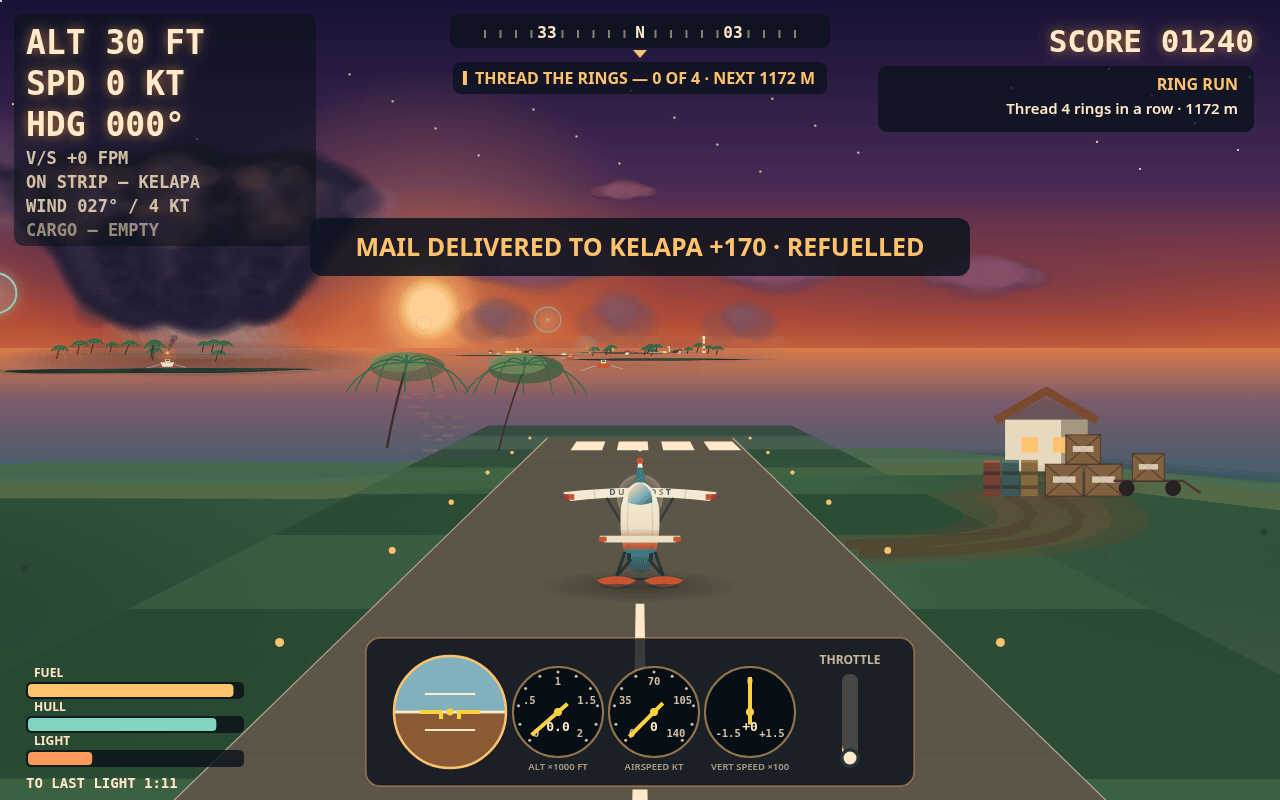
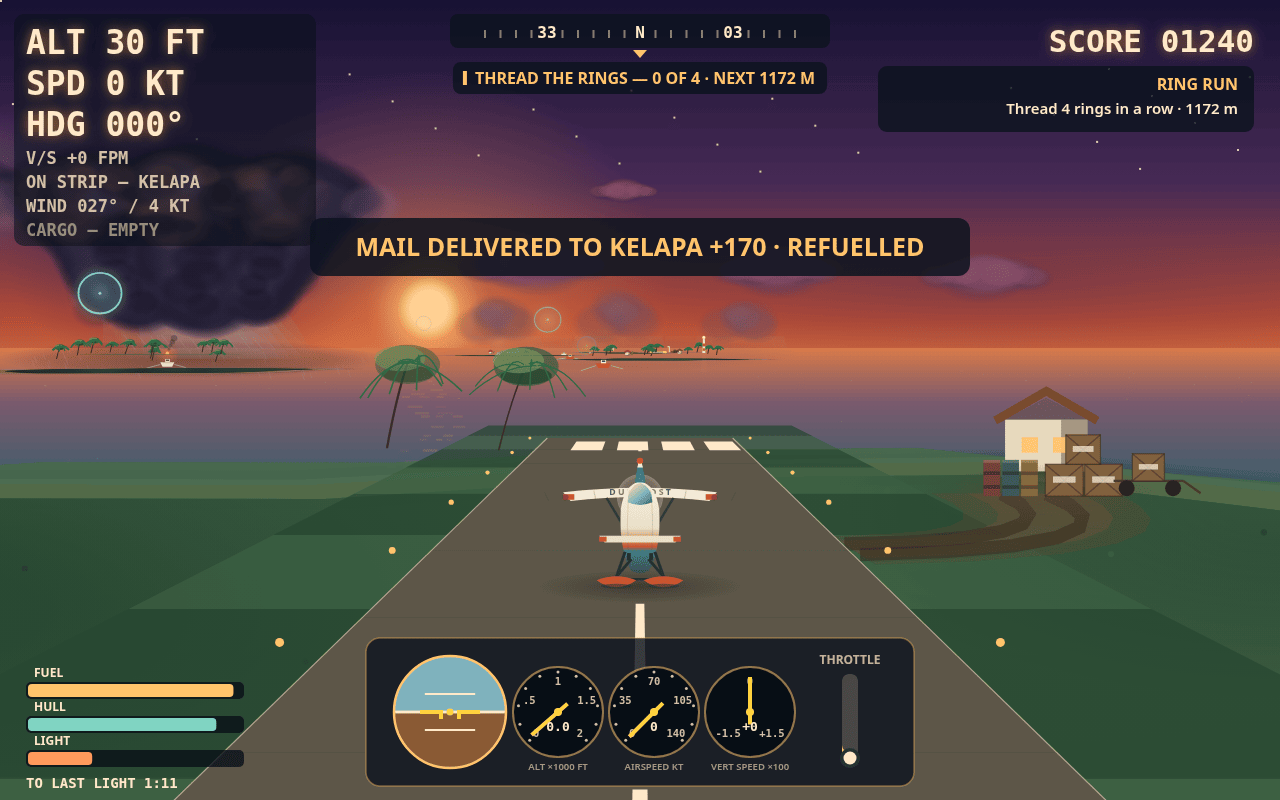
V12: palms that are trees, modelled clouds, one-mass storm cell, rain-textured sea, whole ring

diff --git a/game/src/render.js b/game/src/render.js
@@ -184,7 +184,7 @@ function drawSea(ctx, v, plane, light) {
   }
   ctx.globalAlpha = 1;
   ctx.fillStyle = 'rgba(220,245,245,0.35)';
-  for (let i = 0; i < 70; i += 1) {
+  for (let i = 0; i < 110; i += 1) {
     // Hashed placement, not modular: the old steps — (i × 613.7) %
     // 1500 in z, (i × 389.3) % 900 in x — are two arithmetic
     // progressions, and their points lie on lattice runs however
@@ -192,7 +192,7 @@ function drawSea(ctx, v, plane, light) {
     // run aligned into a dotted column descending the water, a
     // marker line instead of light (V10 audit problem 10). A
     // sin-hash of the index (the pattern this file uses for grain
-    // and jitter everywhere else) scatters the same 70 dashes over
+    // and jitter everywhere else) scatters the same 110 dashes over
     // the same ranges with no runs left to align.
     const hash = (salt) => {
       const h = Math.sin(i * 12.9898 + salt * 7.77) * 43758.5453;
@@ -203,7 +203,13 @@ function drawSea(ctx, v, plane, light) {
     const p = project(v, wx, 0, wz + hash(3) * 60);
     if (!p || p.y < v.horizon) continue;
     const len = clamp(p.s * 0.09, 2, 26);
-    ctx.globalAlpha = clamp(0.5 - p.fwd / 2600, 0.05, 0.4);
+    // V12: the floor was 0.05 — at the storm camera the open sea is
+    // far water and the sparkle vanished into it, and the cover's
+    // sea left of the glitter column was one flat field (V12 audit
+    // problems 3 and 8). The floor is 0.10 now and the count is 110:
+    // the sea keeps some light everywhere without the glitter
+    // column coming back.
+    ctx.globalAlpha = clamp(0.5 - p.fwd / 2600, 0.10, 0.4);
     ctx.fillRect(p.x - len / 2, p.y, len, Math.max(1, p.s * 0.012));
   }
   ctx.globalAlpha = 1;
@@ -534,6 +540,27 @@ function drawStorm(ctx, v, storm, t) {
     ctx.lineTo(px + len * 0.35, py + len);
     ctx.stroke();
   }
+  // The stipple stops at the shadow's rim, so the cell's weather
+  // ends in a clean circle and the open sea beyond it is polished
+  // — the storm frame's whole bottom-right quarter was one smooth
+  // wash (V12 audit problem 3). A sparse outer ring (1.1–2.4R) of
+  // the same slanted dashes at a lower alpha carries the rain out
+  // onto the open water; it adds texture, not a shape, and the
+  // annulus test keeps it off the shadow it extends.
+  for (let i = 0; i < 40; i += 1) {
+    const fx = (grain(i, 81) * 2 - 1) * 2.4;
+    const fz = (grain(i, 82) * 2 - 1);
+    const d2 = fx * fx * 0.8 + fz * fz;
+    if (d2 < 1.15 || d2 > 5.6) continue;
+    const px = cx + fx * R;
+    const py = seaY + fz * R * 0.085;
+    const len = R * (0.015 + grain(i, 83) * 0.025);
+    ctx.globalAlpha = Math.min(0.07, (0.03 + grain(i, 84) * 0.03) * shaftBoostPre);
+    ctx.beginPath();
+    ctx.moveTo(px, py);
+    ctx.lineTo(px + len * 0.35, py + len);
+    ctx.stroke();
+  }
   ctx.globalAlpha = 1;
 
   // The rain shaft: a slanted curtain from the cloud base to the sea — the
@@ -628,15 +655,25 @@ function drawStorm(ctx, v, storm, t) {
       ctx.fill();
     }
   });
+  // The streaks were 0.55–0.75 of the fall long — at the storm
+  // frame's scale, 165–225 px straight diagonal scratches across
+  // the sea (V12 audit problem 4). Rain reads as broken dashes,
+  // not long rules: two staggered sets of short streaks, each
+  // ~0.30 of the fall, so no single dash runs more than a third
+  // of the column.
   ctx.strokeStyle = `rgba(190,200,220,${0.15 * shaftBoost})`;
   ctx.lineWidth = Math.max(1, s * 0.35);
-  for (let i = 0; i < 15; i += 1) {
-    const fx = -0.40 + i * 0.057;
-    const drift = ((t * 0.7 + i * 0.37) % 1) * 0.3;
-    ctx.beginPath();
-    ctx.moveTo(cx + fx * R, baseY + (seaY - baseY) * drift * 0.2);
-    ctx.lineTo(cx + fx * R + slant * (0.4 + drift), baseY + (seaY - baseY) * (0.55 + drift * 0.4));
-    ctx.stroke();
+  for (let set = 0; set < 2; set += 1) {
+    for (let i = 0; i < 12; i += 1) {
+      const fx = -0.40 + (i + set * 0.5) * 0.069;
+      const drift = ((t * 0.7 + (i + set * 6) * 0.37) % 1) * 0.3;
+      const t0 = 0.06 + set * 0.42 + drift * 0.2;
+      const t1 = t0 + 0.30;
+      ctx.beginPath();
+      ctx.moveTo(cx + fx * R, baseY + (seaY - baseY) * t0);
+      ctx.lineTo(cx + fx * R + slant * 0.45, baseY + (seaY - baseY) * t1);
+      ctx.stroke();
+    }
   }
 
   // Far weather beyond the shoulder: three very large, soft puffs of
@@ -1026,7 +1063,18 @@ function drawCloud(ctx, v, c, stormDisc = null) {
   // with range, in the squall's own spirit; the lit tops are the
   // light, and stay.
   const hz = clamp((p.fwd - 1200) / 2600, 0, 0.4);
-  const bellyRgb = `${Math.round(74 + (138 - 74) * hz)},${Math.round(44 + (85 - 44) * hz)},${Math.round(86 + (112 - 86) * hz)}`;
+  // V12: a cloud inside the storm's silhouette draws in the CELL's
+  // own belly colour, not the sky's. The shaded branch used the sky
+  // belly (74,44,86) at 0.34 — far lighter than the cell's near-black
+  // belly (33,29,50 at 0.88) — so a shaded cloud printed a lighter
+  // mauve oval inside the storm cell in the approach frame (V12
+  // audit problem 7). Proven by render diff on the V11 tree: the
+  // mid-pass probe left the oval unchanged, skipping shaded clouds
+  // removed it and darkened the belly (mean 53.3 → 47.0). In the
+  // cell's own tone the cloud adds mass to the storm instead of a
+  // patch on it.
+  const bellyRgb = shaded ? '33,29,50'
+    : `${Math.round(74 + (138 - 74) * hz)},${Math.round(44 + (85 - 44) * hz)},${Math.round(86 + (112 - 86) * hz)}`;
   puffs.forEach(([ox, oy, r], i) => {
     const voy = oy > 0.05 ? oy * 0.7 : oy;
     const cxp = p.x + (ox * mir * spreadK + (jit(i, 1) - 0.5) * 0.09) * w;
@@ -1035,6 +1083,22 @@ function drawCloud(ctx, v, c, stormDisc = null) {
     const a = shaded ? 0.34 : (0.5 + jit(i, 4) * 0.14) * (1 - hz * 0.8);
     softPuff(ctx, cxp, cyp, rr, `rgba(${bellyRgb},${a})`, `rgba(${bellyRgb},0)`, squash);
   });
+  // A dark core low in the belly: six puffs of one belly colour left
+  // the hero clouds as smooth cushions with no interior at all (V12
+  // audit problem 2). Three darker puffs at hashed offsets, the
+  // storm body's own device, give the belly a shadow to hold. They
+  // use bellyRgb, so a shaded cloud's core is storm-coloured too.
+  for (let i = 0; i < 3; i += 1) {
+    softPuff(
+      ctx,
+      p.x + (jit(i, 51) - 0.5) * w * 0.5,
+      p.y + w * spread * (0.02 + jit(i, 52) * 0.08),
+      w * 0.28 * (0.85 + jit(i, 53) * 0.3),
+      `rgba(${shaded ? '33,29,50' : '52,32,62'},${(shaded ? 0.12 : 0.20) * (1 - hz * 0.8)})`,
+      `rgba(${shaded ? '33,29,50' : '52,32,62'},0)`,
+      squash,
+    );
+  }
   if (shaded) return;
   puffs.forEach(([ox, oy, r], i) => {
     const voy = oy > 0.05 ? oy * 0.7 : oy;
@@ -1044,13 +1108,18 @@ function drawCloud(ctx, v, c, stormDisc = null) {
     softPuff(ctx, cxp, cyp, rr, `rgba(146,84,110,${0.30 + jit(i, 5) * 0.14})`, 'rgba(146,84,110,0)', squash);
   });
   if (big) {
+    // V12: the lit row sat at p.y − w × spread × 0.34 and spanned
+    // fx −0.44…0.44 — at the row's ends it poked above the belly top
+    // puff's silhouette, so the light read as a small cap floating
+    // on the cloud (V12 audit problem 2). Lowered and narrowed, the
+    // light sits inside the belly instead of on top of it.
     for (let i = 0; i < 5; i += 1) {
-      const fx = -0.44 + i * 0.22 + (jit(i, 21) - 0.5) * 0.07;
-      const rr = w * (0.10 + jit(i, 22) * 0.05);
+      const fx = -0.36 + i * 0.18 + (jit(i, 21) - 0.5) * 0.07;
+      const rr = w * (0.12 + jit(i, 22) * 0.05);
       softPuff(
         ctx,
         p.x + fx * w,
-        p.y - w * spread * 0.34 + (jit(i, 23) - 0.5) * w * 0.03,
+        p.y - w * spread * 0.26 + (jit(i, 23) - 0.5) * w * 0.03,
         rr,
         `rgba(255,166,110,${0.10 + jit(i, 24) * 0.07})`,
         'rgba(255,166,110,0)',
@@ -1080,7 +1149,13 @@ function drawIsland(ctx, v, isl, t, light, world) {
   // 6). The new curve gives 715 m a 0.113 wash and 1,000 m 0.26,
   // while the cover's ~440 m and the approach's ~330 m stay at
   // zero, so no frame that was right changes.
-  const haze = clamp((fwd - 500) / 1900, 0, 0.45);
+  // V12 deepens it one more safe step (450 m start, 1700 m run):
+  // 0.113 at 715 m was still gentle — Cahaya still read
+  // full-strength green in the storm frame (V12 audit problem 5).
+  // 715 m now takes 0.156 and 1,000 m 0.324, while the cover's
+  // ~440 m and the approach's ~330 m still sit below the start,
+  // so no frame that was right changes.
+  const haze = clamp((fwd - 450) / 1700, 0, 0.45);
   const dark = (1 - clamp(light, 0, 1)) * 0.75;
   // The ground darkens harder than the palette's other tones: at last light
   // the sky keeps its orange horizon while the land is already in night, and
@@ -1225,8 +1300,15 @@ function drawIsland(ctx, v, isl, t, light, world) {
         const p = project(v, wx, world.heightAt(wx, wz), wz);
         if (!p) continue;
         const r = clamp(p.s * 0.55, 0.7, 3.1);
-        ctx.fillStyle = sh(i, 3) > 0.72
-          ? hexA(toneLand('#7d9a63', '#33482e'), speckA * 0.8)
+        // V12: the pale tufts went through toneLand, whose darkLand
+        // is 0.71 at last light — they were dragged down to the
+        // land's own dusk tone and the speckle's contrast collapsed
+        // exactly where the delivery frame is darkest, leaving the
+        // off-apron grass one flat fill (V12 audit problem 9). The
+        // pale tufts now use tone() (dark 0.53, not darkLand 0.71)
+        // so they survive last light, and their share rises.
+        ctx.fillStyle = sh(i, 3) > 0.62
+          ? hexA(tone('#7d9a63', '#33482e'), speckA * 0.9)
           : hexA(toneLand('#1f4030', '#0c1c14'), speckA);
         ctx.beginPath();
         ctx.arc(p.x, p.y, r, 0, Math.PI * 2);
@@ -1625,11 +1707,13 @@ function drawApron(ctx, v, isl, toneLand) {
   };
   wornBand(7.2, 0.34, '#8a6f4d', '#4a3a28');
   wornBand(4.4, 0.50, '#9a7c56', '#54432e');
-  // The wheel lines: two dark ruts following the bend at ±1.15 m —
-  // the wear that says wheels, not weather, made this path.
-  for (const off of [1.15, -1.15]) {
-    ctx.strokeStyle = hexA(toneLand('#5f4a33', '#33281c'), 0.32);
-    ctx.lineWidth = Math.max(1, centre.s * 0.4);
+  // The wheel lines: two dark ruts following the bend at ±1.30 m —
+  // the wear that says wheels, not weather, made this path. V11's
+  // ruts (alpha 0.32, 1 px, mid-brown) landed faint and vanished at
+  // judge size (V12 audit problem 6): darker, half alpha, wider.
+  for (const off of [1.30, -1.30]) {
+    ctx.strokeStyle = hexA(toneLand('#4a3524', '#2a1f14'), 0.50);
+    ctx.lineWidth = Math.max(1.5, centre.s * 0.55);
     ctx.beginPath();
     for (let i = 0; i <= SEG; i += 1) {
       const tt = i / SEG;
@@ -1859,6 +1943,18 @@ function drawPalm(ctx, v, x, y, z, s) {
   // more weight and droop lower (problem 7: arcs ending at +0.24h
   // over a 0.20h-deep dome read as a parasol; fronds that fall to
   // +0.34h read as a palm).
+  // V12: the two-tone crown is still a parasol seen side-on — one
+  // flat ellipse (0.44h × 0.17h) with seven identical fronds
+  // radiating from its centre point (V12 audit problem 1). The
+  // crown is taller and less flat now, with a dark underside
+  // crescent so the mass has a bottom, and the fronds start across
+  // the crown's top at hashed offsets with hashed lengths, droops
+  // and weights — no two fronds agree, the way no two fronds on a
+  // real palm do.
+  const ph = (i, salt) => {
+    const hh = Math.sin(x * 12.9898 + z * 0.371 + i * 7.77 + salt * 3.1) * 43758.5453;
+    return hh - Math.floor(hh);
+  };
   if (base.s < 30) {
     ctx.save();
     // V11: the crown is two-tone and its alpha floor is lifted.
@@ -1872,21 +1968,29 @@ function drawPalm(ctx, v, x, y, z, s) {
     ctx.globalAlpha = clamp(1.15 - base.s * 0.06, 0.50, 0.85);
     ctx.fillStyle = '#2c5a3c';
     ctx.beginPath();
-    ctx.ellipse(tx, ty + h * 0.05, h * 0.44, h * 0.17, 0, 0, Math.PI * 2);
+    ctx.ellipse(tx, ty + h * 0.02, h * 0.38, h * 0.23, 0, 0, Math.PI * 2);
+    ctx.fill();
+    ctx.fillStyle = '#1e4229';
+    ctx.beginPath();
+    ctx.ellipse(tx, ty + h * 0.13, h * 0.30, h * 0.10, 0, 0, Math.PI * 2);
     ctx.fill();
     ctx.fillStyle = '#6f9a5f';
     ctx.beginPath();
-    ctx.ellipse(tx - h * 0.10, ty - h * 0.01, h * 0.34, h * 0.12, 0, 0, Math.PI * 2);
+    ctx.ellipse(tx - h * 0.09, ty - h * 0.05, h * 0.30, h * 0.15, 0, 0, Math.PI * 2);
     ctx.fill();
     ctx.restore();
   }
   ctx.strokeStyle = '#2f6b46';
-  ctx.lineWidth = Math.max(1.1, base.s * 0.11);
+  ctx.lineWidth = Math.max(1.3, base.s * 0.13);
   for (let i = 0; i < 7; i += 1) {
     const a = Math.PI * (0.05 + i * 0.155);
+    const ox = tx + (ph(i, 41) - 0.5) * h * 0.30;
+    const oy = ty - h * 0.02 + ph(i, 42) * h * 0.04;
+    const len = h * (0.55 + ph(i, 43) * 0.30);
+    const droop = h * (0.22 + ph(i, 44) * 0.20);
     ctx.beginPath();
-    ctx.moveTo(tx, ty);
-    ctx.quadraticCurveTo(tx + Math.cos(a) * h * 0.5, ty - Math.sin(a) * h * 0.30, tx + Math.cos(a) * h * 0.72, ty + h * 0.34);
+    ctx.moveTo(ox, oy);
+    ctx.quadraticCurveTo(ox + Math.cos(a) * len * 0.5, oy - Math.sin(a) * len * 0.30, ox + Math.cos(a) * len, oy + droop);
     ctx.stroke();
   }
 }

diff --git a/game/src/shots.js b/game/src/shots.js
@@ -7,6 +7,7 @@
 import { createWorld } from './archipelago.js';
 import { createPlane } from './flight-physics.js';
 import { createMissions } from './missions.js';
+import { makeView, project } from './render.js';
 
 export const SHOT_NAMES = ['cover', 'approach', 'delivery', 'title', 'storm'];
 
@@ -119,6 +120,26 @@ export function stageShot(name, seed) {
     game.light = 71;
     game.banner = { text: `MAIL DELIVERED TO ${isl.name} +170 · REFUELLED`, until: 1e9 };
     game.stats.deliveries = 2;
+    // One seeded far ring hangs just off this shot's left edge — a
+    // cyan arc sliced by the border, a clipped circle rather than a
+    // target (V12 audit problem 10: the ring at (−157, 45, 1730)
+    // projects to screen x −5). Re-hang it inboard, the same staging
+    // the cover and approach use: shift it east until its centre
+    // projects inside the frame with its whole rim showing. Only a
+    // ring whose rim already crosses the border is re-hung — a ring
+    // fully off-frame stays off-frame, so no target is invented
+    // where the shot had none.
+    {
+      const v = makeView(plane, null);
+      for (const r of world.rings) {
+        if (r.passed || r.z <= plane.z) continue;
+        const p = project(v, r.x, r.y, r.z);
+        if (!p) continue;
+        const rx = r.r * p.s;
+        if (p.x < 100 && p.x > -rx) r.x += (100 - p.x) / p.s;
+        else if (p.x > 1180 && p.x < 1280 + rx) r.x -= (p.x - 1180) / p.s;
+      }
+    }
   } else if (name === 'title') {
     // Floating at the home harbour before the run, the course and its lighthouse ahead.
     const home = world.islands[0];
